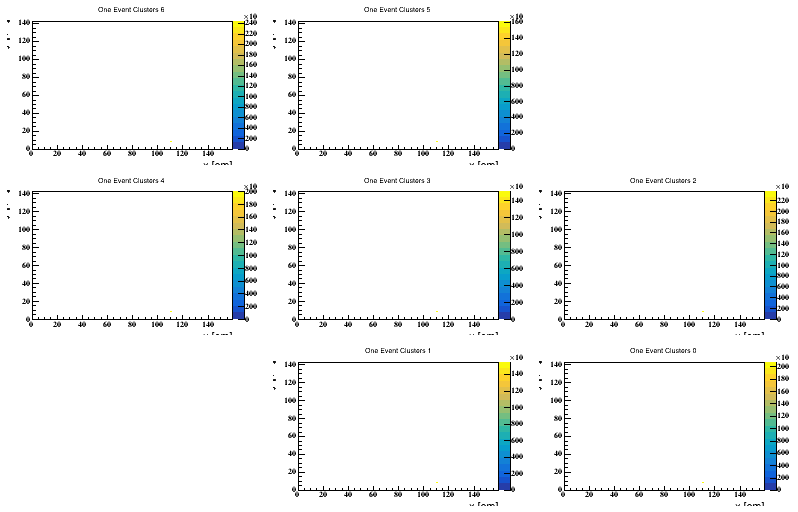
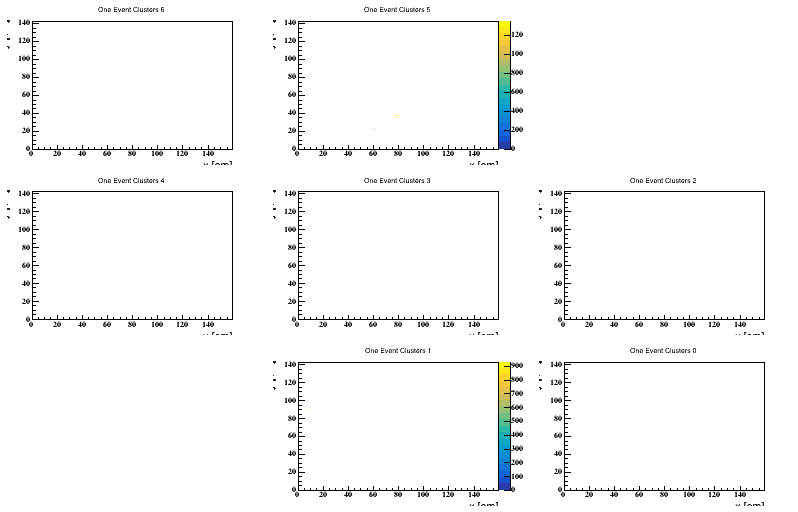
one event dig/clu

diff --git a/sim10000/readClusters.C b/sim10000/readClusters.C
@@ -733,19 +733,19 @@ void readClusters(int nEvents = 1, bool leadRun = false) {
 
   for(auto& clu : oneEventClusters){
     auto chamber = clu.ch();
-    //cout << "filling clusters " << chamber << endl;
     auto x = clu.x();
     auto y = clu.y();
     auto charge = clu.q();
-    oneEventCluMap[chamber]->Fill(padChX, padChY, charge);
+    oneEventCluMap[chamber]->Fill(x, y, charge);
   }
+
 
   for (int iCh = 0; iCh < 7; iCh++) {
     const auto &pos = posArr[iCh];
     TPad *pad = static_cast<TPad *>(oneEventClusterCanvas->cd(pos));
     oneEventCluMap[iCh]->SetStats(kFALSE);
     oneEventCluMap[iCh]->SetMarkerStyle(3);
-    oneEventCluMap[iCh]->DrawCopy("Colz");//    oneEventCluMap[iCh]->DrawCopy("Colz");
+    oneEventCluMap[iCh]->Draw("Colz");//    oneEventCluMap[iCh]->DrawCopy("Colz");
   }
   oneEventClusterCanvas->SaveAs(Form("One Event Cluster Map_%s_.png", folder));
   oneEventClusterCanvas->Show();
@@ -1212,22 +1212,37 @@ vector<string> dig2Clus(const std::string &fileName, vector<Cluster> &clusters,
         clusterTriggers.emplace_back(trig.getIr(), clStart,
                                      clusters.size() - clStart);
         if(j == numEvent){
-          /*for(auto clu : clusters) {
+          std::array<int, 7> cntC, cntD = {{0}};
+
+          const auto& cluTrig = clusterTriggers[j];
+
+          const auto firstCluster = clStart;
+          const auto lastCluster = clusters.size();
+
+
+          for(int cluEntry = firstCluster; cluEntry < lastCluster; cluEntry++) {
+            auto clu = clusters[cluEntry];
             auto chamber = clu.ch();
-    	    cout << "filling clusters " << chamber << endl;
     	    auto x = clu.x();
     	    auto y = clu.y();
     	    auto charge = clu.q();
-    	    oneEventCluMap[chamber]->Fill(padChX, padChY, charge);
-          }*/
-          oneEventClusters = clusters;
+            oneEventClusters.push_back(clu);
+            cntC[chamber]++;
+          }
+
+          //oneEventClusters = clusters;
           for(const auto& dig : trigDigits){
  	   oneEventDigits.push_back(dig);
-           /*const auto& digId = dig.getPadID();
-    	   cout << "filling digits " << digId << endl;
-    	   Digit::pad2Absolute(digId, &module, &padChX, &padChY);
-    	   oneEventDigMap[module]->Fill(padChX, padChY, dig.getQ());*/
+           int m; int x; int y;
+           const auto& digId = dig.getPadID();
+    	   Digit::pad2Absolute(digId, &m, &x, &y);
+           cntD[m]++;
 	  }
+    	  cout << "oneEventDigits " << oneEventDigits.size() << endl;
+    	  cout << "oneEventClusters " << oneEventClusters.size() << endl;
+
+ 	  cout << "===================" << endl << endl;
+
         }
       } // end if trig.getNumberOfObjects()
       j++;
